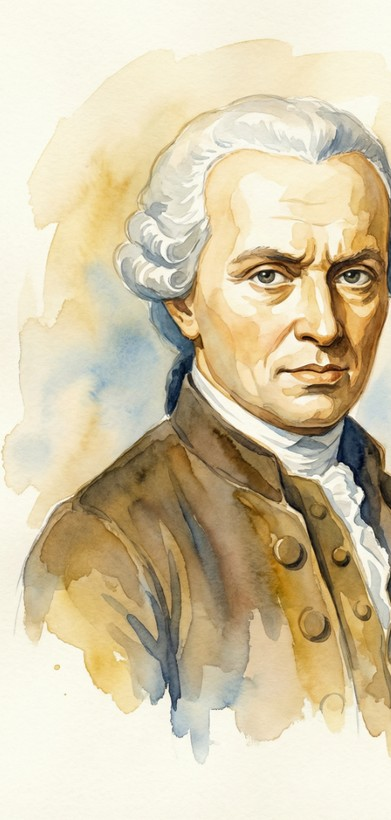
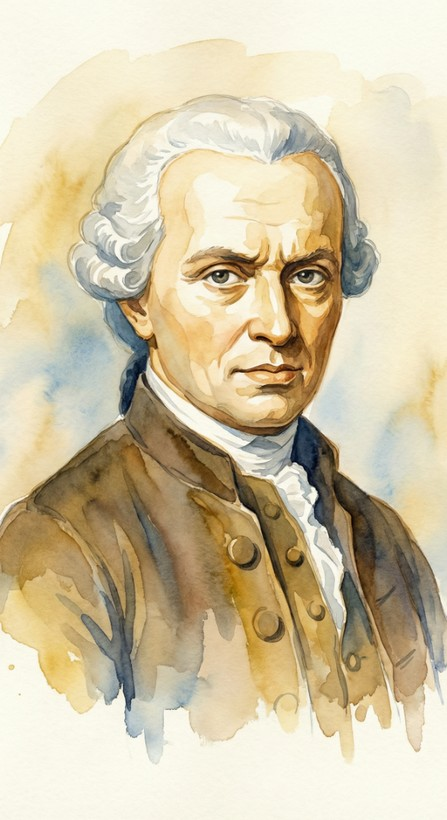
修正肖像裁切、刪除引用來源頁
- 康德水彩肖像重裁：右移、右側不再被削、減少左側留白
- 托爾斯泰水彩肖像重裁：切掉右側殘留的原簡報文字
- 刪除「引用來源」頁（原 S36），簡報由 37 頁縮為 36 頁

diff --git a/index.html b/index.html
@@ -1717,35 +1717,6 @@ table.competency td:first-child {
   </p>
 </section>
 
-<!-- ============== 33. 引用來源 ============== -->
-<section class="slide" data-slide="33">
-  <h2>引用來源</h2>
-  <p class="ref-section-title">中文文獻</p>
-  <ol class="references">
-    <li>林治平（2019）。《人啊！你在哪裡？全人生命理念的尋思與落實》。臺北市：宇宙光。</li>
-    <li>孫效智（2001）。〈生命教育的內涵與實施〉。《哲學雜誌》，35，頁 4–31。</li>
-    <li>孫效智（2002）。〈生命教育之推動困境與內涵建構策略〉。《教育資料集刊》，27，頁 283–301。</li>
-    <li>孫效智（2009）。〈臺灣生命教育的挑戰與願景〉。《課程與教學季刊》。臺北：中華民國課程與教學學會。</li>
-    <li>孫效智（2010）。〈導言　人生三問〉。載於孫效智等著，《打開生命的 16 封信》（頁 7–22）。臺北市：聯經。</li>
-    <li>孫效智（2013）。〈大學生命教育的理念與策略〉。《生命教育研究》，5(2)，頁 1–37。</li>
-    <li>孫效智（2015）。〈生命教育核心素養的建構與十二年國教課綱的發展〉。《教育研究月刊》，251，頁 48–72。</li>
-    <li>傅偉勳（2012）。《死亡的尊嚴與生命的尊嚴》。新北市：正中書局。</li>
-    <li>曾志朗（1999 年 1 月 3 日）。〈生命教育——教改不能遺漏的一環〉。《聯合報》（第 4 版）。</li>
-    <li>衛生福利部統計處（2024）。《2024 年國人死因統計》。</li>
-    <li>兒福聯盟（2025）。《臺灣青少年心理健康調查報告》。n=7,007。</li>
-  </ol>
-  <p class="ref-section-title" style="margin-top: 0.5em;">西文文獻</p>
-  <ol class="references">
-    <li>Covey, S. R. (1997). <em>The 7 Habits of Highly Effective People</em>.</li>
-    <li>Faure, E., et al. (1972). <em>Learning to be: The world of education today and tomorrow</em>. Paris: UNESCO.</li>
-    <li>Flanagan, O. (2009). <em>The really hard problem: Meaning in a material world</em>. Cambridge, MA: MIT Press.</li>
-    <li>Kant, I. (1880). <em>Logik: Ein Handbuch zu Vorlesungen</em>.</li>
-    <li>Tolstoy, L. (1882/2025). <em>A Confession</em> (A. Maude Trans.). Standard Ebooks.</li>
-    <li>Camus, A. <em>The Myth of Sisyphus</em>.</li>
-    <li>Heidegger, M. <em>Being and Time</em>.</li>
-  </ol>
-</section>
-
 <!-- ============== 34. 結語 ============== -->
 <section class="slide closing" data-slide="34">
   <h2>結　語</h2>